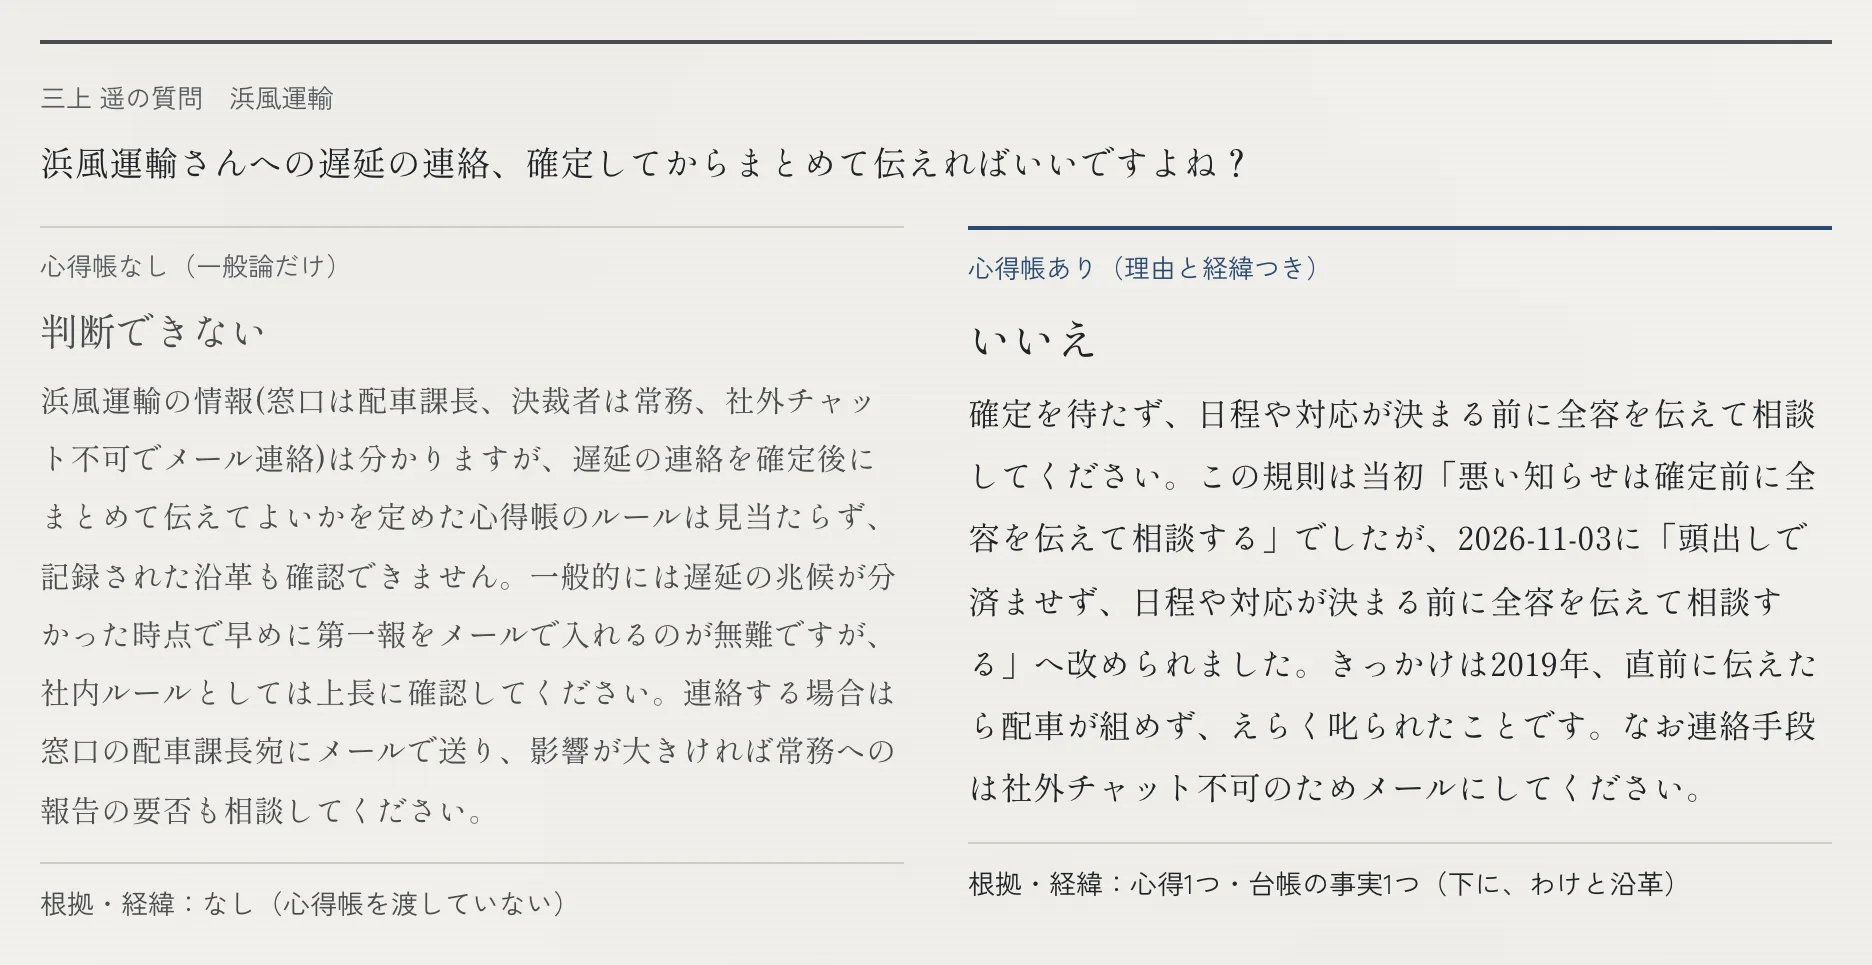
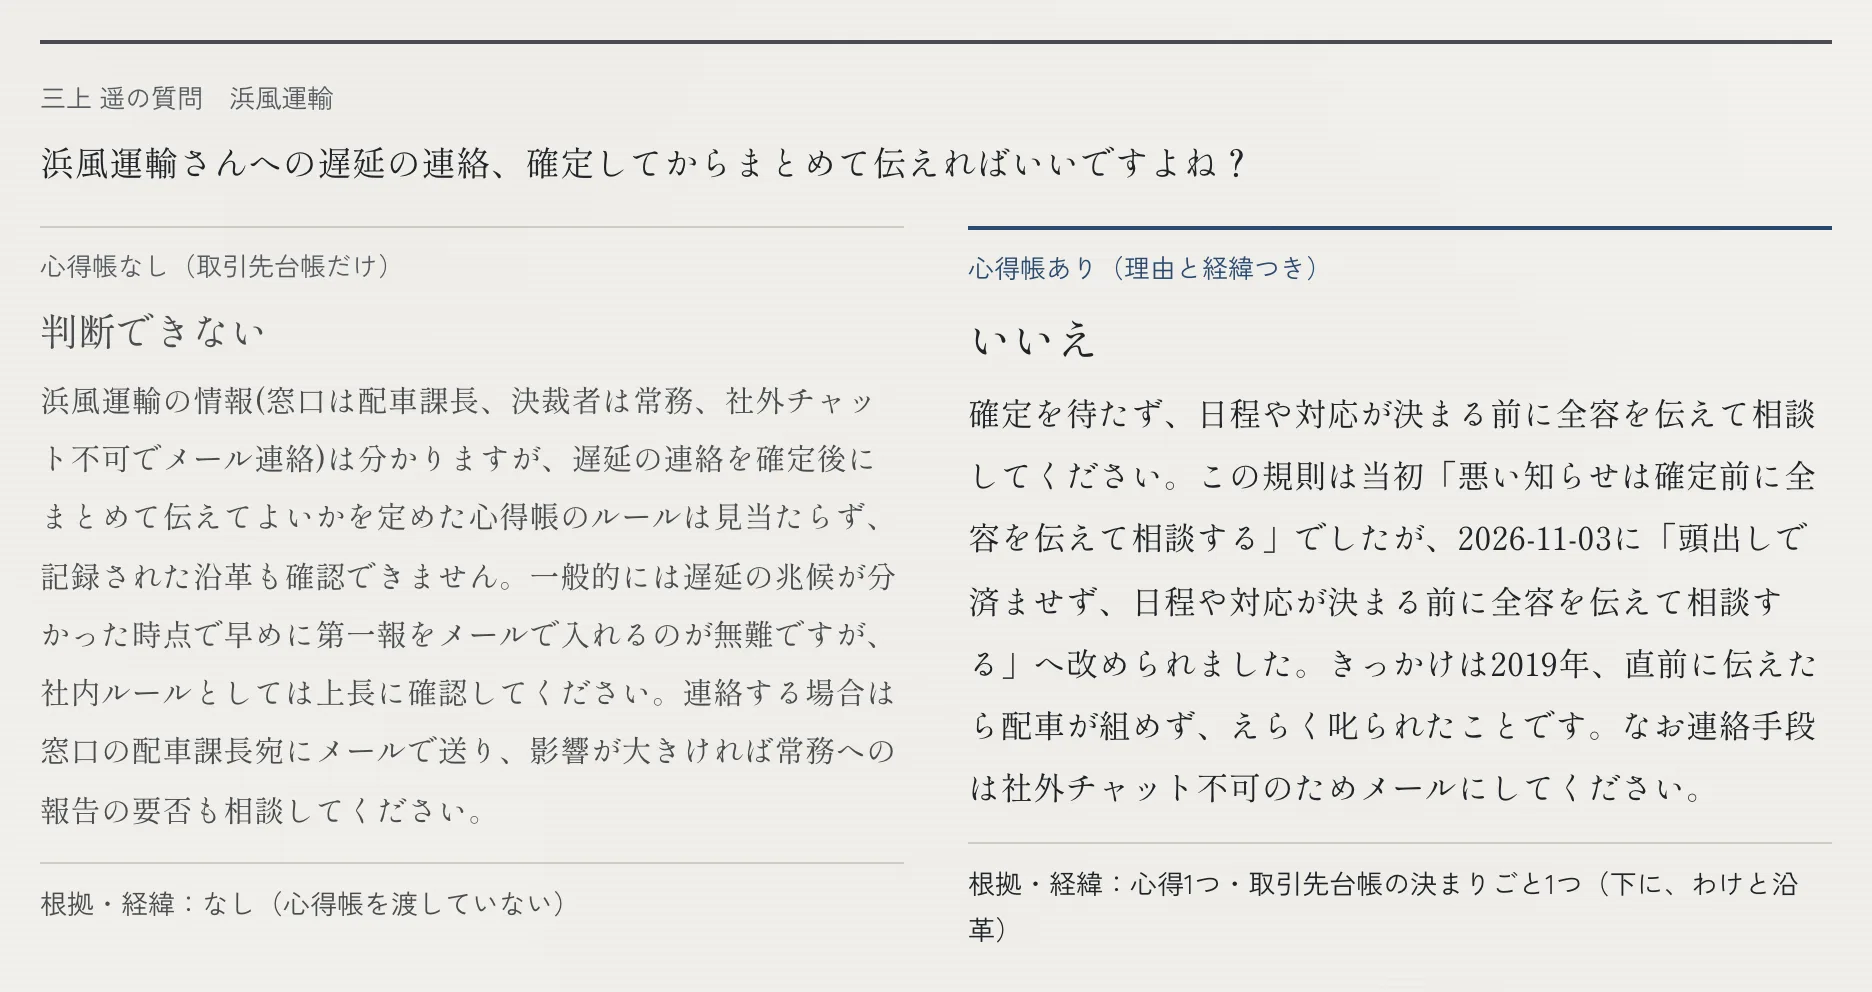
ui-critic round 16 (暖簾を継ぐ answer at full size): the words added since 前は are marked (character LCS); the answer with the 心得帳 first on phones; plain words for evaluation/ledger jargon; small lines 13px, 前は in body ink, labels unbroken; 心得帳なし（取引先台帳だけ）; s07 and README pictures re-shot

diff --git a/app/noren/page.tsx b/app/noren/page.tsx
@@ -10,6 +10,26 @@ import { ownEnabled } from "@/src/core/own-world";
 import general from "@/data/demo/recorded-answers-general.json";
 import recorded from "@/data/demo/recorded-answers.json";
 
+/**
+ * The rule as it is now, with only the words added since 前は marked (character LCS against 前は; one-character gaps inside a
+ * changed run are marked too, so incidental matches do not split it; ui-critic 11/6).
+ */
+function Changed({ before, after }: { before: string; after: string }) {
+  const b = [...before], a = [...after];
+  const L = Array.from({ length: a.length + 1 }, () => new Array<number>(b.length + 1).fill(0));
+  for (let i = a.length - 1; i >= 0; i--) for (let j = b.length - 1; j >= 0; j--) L[i][j] = a[i] === b[j] ? L[i + 1][j + 1] + 1 : Math.max(L[i + 1][j], L[i][j + 1]);
+  const added = new Array<boolean>(a.length).fill(true);
+  for (let i = 0, j = 0; i < a.length && j < b.length; ) {
+    if (a[i] === b[j]) { added[i] = false; i++; j++; } else if (L[i + 1][j] >= L[i][j + 1]) i++; else j++;
+  }
+  for (let i = 1; i < a.length - 1; i++) if (!added[i] && added[i - 1] && added[i + 1]) added[i] = true;
+  const marked = added.filter(Boolean).length;
+  if (!marked || marked > a.length * 0.6) return <>{after}</>; // nothing, or nearly everything, changed: no marking
+  const parts: { text: string; on: boolean }[] = [];
+  a.forEach((ch, i) => (parts.at(-1)?.on === added[i] ? (parts.at(-1)!.text += ch) : parts.push({ text: ch, on: added[i] })));
+  return <>{parts.map((x, k) => (x.on ? <mark key={k} className="bg-transparent font-bold text-ai underline decoration-ai/50 underline-offset-4">{x.text}</mark> : <span key={k}>{x.text}</span>))}</>;
+}
+
 const ANSWER: Record<SuccessorTurn["answer"], { word: string; tone: string }> = {
   yes: { word: "はい", tone: "text-ai" },
   no: { word: "いいえ", tone: "text-sumi" }, // vermilion is only for the master's marks
@@ -57,13 +77,13 @@ function Turn({ t, ruleText }: { t: SuccessorTurn; ruleText: (id: string) => str
       <p className="yomi mt-1 text-[17px]">{t.question}</p>
       {g ? (
         <div className="mt-4 grid gap-x-8 gap-y-5 sm:grid-cols-2">
-          <section aria-label="心得帳なしの答え" className="border-t border-keisen pt-2 sm:order-none">
-            <h3 className="text-[13px] text-nibi">心得帳なし（一般論だけ）</h3>
+          <section aria-label="心得帳なしの答え" className="order-2 border-t border-keisen pt-2 sm:order-none">
+            <h3 className="text-[13px] text-nibi">心得帳なし（取引先台帳だけ）</h3>
             <p className="mt-1 font-mincho text-[19px] text-sumi/80">{g.answer === "unknown" ? "判断できない" : ANSWER[g.answer].word}</p>
             <p className="yomi mt-1 text-[15px] text-sumi/80">{plainText(g.explanation)}</p>
             <p className="mt-3 border-t border-keisen pt-2 text-[13.5px] text-sumi/80">根拠・経緯：なし（心得帳を渡していない）</p>
           </section>
-          <section aria-label="心得帳ありの答え" className="border-t-2 border-ai pt-2">
+          <section aria-label="心得帳ありの答え" className="order-1 border-t-2 border-ai pt-2 sm:order-none">
             <h3 className="text-[13px] text-ai">心得帳あり（理由と経緯つき）</h3>
             <div className="mt-1">{mine}</div>
             <p className="mt-3 border-t border-keisen pt-2 text-[13.5px] text-sumi">
@@ -72,7 +92,7 @@ function Turn({ t, ruleText }: { t: SuccessorTurn; ruleText: (id: string) => str
                 const fact = t.citations.filter((c) => /出典[:：]\s*台帳/.test(c.history)).length;
                 const rule = t.citations.length - fact;
                 if (!t.citations.length) return "なし（心得帳に記録がないので、師匠に確認を勧める）";
-                return [rule && `心得${rule}つ`, fact && `台帳の事実${fact}つ`].filter(Boolean).join("・") + "（下に、わけと沿革）";
+                return [rule && `心得${rule}つ`, fact && `取引先台帳の決まりごと${fact}つ`].filter(Boolean).join("・") + "（下に、わけと沿革）";
               })()}
             </p>
           </section>
@@ -85,7 +105,7 @@ function Turn({ t, ruleText }: { t: SuccessorTurn; ruleText: (id: string) => str
         <div className="mt-5 grid gap-x-5 border-t border-keisen pt-3 sm:grid-cols-[2.2rem_1fr]">
           <h3 className="font-mincho text-[14px] tracking-[0.2em] sm:tate">根拠の心得</h3>
           <ul className="mt-1 space-y-3 sm:mt-0">
-            {t.source === "recorded" && <li className="text-[12.5px] text-nibi">評価のときの心得帳の言い回しです。いまの心得帳とは言い回しが違うことがあります。</li>}
+            {t.source === "recorded" && <li className="text-[13px] text-nibi">記録したときの心得帳の言い回しです。いまの心得帳とは、言い回しが違うことがあります。</li>}
             {t.citations.map((c, i) => {
               const h = citationParts(c.history);
               const live = t.source === "live" && ruleText(c.ruleId);
@@ -94,13 +114,13 @@ function Turn({ t, ruleText }: { t: SuccessorTurn; ruleText: (id: string) => str
                   {live ? (
                     <Link className="yomi text-[16.5px] text-ai underline-offset-4 hover:underline" href={`/kokoroe#${c.ruleId}`}>{h.rule}</Link>
                   ) : (
-                    <p className="yomi text-[16.5px]">{h.rule}</p>
+                    <p className="yomi text-[16.5px]">{h.before ? <Changed before={h.before} after={h.rule} /> : h.rule}</p>
                   )}
-                  {h.before && <p className="yomi text-[14px] text-nibi">前は：{h.before}</p>}
+                  {h.before && <p className="yomi text-[14px]"><span className="text-nibi">前は：</span>{h.before}</p>}
                   {h.why && <p className="yomi text-[14px]"><span className="text-nibi">わけ：</span>{h.why}</p>}
-                  <p className="text-[12.5px] text-nibi">
-                    {h.source && <>出どころ：{h.source}　</>}
-                    {h.written && <>心得帳に書いた日：{h.written}</>}
+                  <p className="text-[13px] text-nibi">
+                    {h.source && <span className="inline-block whitespace-nowrap">出どころ：{h.source.replace("台帳（取引先台帳の明示的な制約）", "取引先台帳")}　</span>}
+                    {h.written && <span className="inline-block whitespace-nowrap">心得帳に書いた日：{h.written}</span>}
                   </p>
                 </li>
               );
@@ -109,7 +129,7 @@ function Turn({ t, ruleText }: { t: SuccessorTurn; ruleText: (id: string) => str
         </div>
       )}
       {t.source === "recorded" ? (
-        <p className="mt-3 text-[12.5px] text-nibi">記録済みの回答（評価のときの心得帳で答えたもの）を表示しています。{g && "心得帳なしの答えも、同じ評価で記録したものです。"}</p>
+        <p className="mt-3 text-[13px] text-nibi">記録済みの答え（記録したときの心得帳で答えたもの）を表示しています。{g && "心得帳なしの答えも、同じときに、心得帳を渡さずに記録したものです。"}</p>
       ) : (
         g && <p className="mt-3 text-[12.5px] text-nibi">心得帳なしの答えは、評価で記録したものです（同じ質問、心得帳を渡さずに答えたもの）。</p>
       )}

diff --git a/docs/ui-polish-log.md b/docs/ui-polish-log.md
@@ -896,3 +896,26 @@ evaluation reads are unchanged.
 - **`eval:final` を API を使わずに試した:** `--yes` なしで実行すると、凍結した正解・直した台帳・コミットを確かめ、見積り $9.75（多めに見て $12.23）を出して「Not run」で止まった。訪問の段取りを評価に入れようとすると止まることも、コードで確かめた（`KOKOROE_EVAL_VISIT=on` で throw）。
 - **YouTube に限定公開で上げる手順:** `docs/final-day.md` に足した（上げるのは Kento）。
 - **README の「作者の現場」の一文:** 触っていない（#9、Kento が書く）。
+
+## A. 画面の目（ui-critic 16回目、11/6 06:25。暖簾を継ぐの答えを原寸で。`46-critic15/` → `47-critic15-fixes/`）
+
+- **見つけたこと:**
+  1. 根拠の心得で、前と今の言い回しがほとんど同じで、何が変わったのか（「確定前」→「日程や対応が決まる前」）が見つからない。答えの本文が引く「前の言い回し」と、「前は」の行が少し違う。
+  2. スマホでは、弱い方（心得帳なし、約10行）が先に来て、「いいえ」はずっと下。
+  3. 審査員には分からない内部の言葉。「評価のときの心得帳」「台帳の事実」「取引先台帳の明示的な制約」、本文の「この規則は」。
+  4. 小さい灰色の行（前は・出どころ・書いた日・注記）が小さく薄い。とくにスマホとダークモード。「前は」が「わけ」より薄く、使えない文字に見える。「心得帳に書い／た日」が途中で割れる。
+  5. 「心得帳なし（一般論だけ）」なのに、答えは取引先台帳の事実を使っている。
+- **直したこと（表示と文言だけ）:**
+  1. 根拠の心得の今の言い回しで、前から**足された語だけ**を藍の太字と下線で示す。前の文と1字ずつ比べ（最長共通部分列）、増えた部分だけを印にする。浜風運輸では「日程や対応が決まる」だけが印になる。
+  2. スマホでは、心得帳ありの答えを先に出す（PC は左右に並べたまま）。
+  3. 言葉を直した。
+     - 「記録したときの心得帳の言い回しです。いまの心得帳とは、言い回しが違うことがあります。」
+     - 「記録済みの答え（記録したときの心得帳で答えたもの）…心得帳なしの答えも、同じときに、心得帳を渡さずに記録したものです。」
+     - 「心得1つ・取引先台帳の決まりごと1つ」
+     - 出どころ「取引先台帳」（画面での言い換えだけ。モデルが読む心得帳の書き方 `src/learning/compile.ts` は変えていない）。
+  4. 小さい行を 13px にした。「前は」の本文は「わけ」と同じ濃さにした。「出どころ：…」「心得帳に書いた日：…」は途中で割れない。
+  5. 「心得帳なし（取引先台帳だけ）」にした。
+- **撮り直し:**
+  - 動画 s07（暖簾を継ぐ）だけを、記録済みのデータで撮り直した（静止画 `s07-noren-1〜3.jpg`、尺 10.5 秒のまま、正午より前）。
+  - README の画像も、同じ手順で作り直した（`docs/readme/*.webp`。3枚目に新しい見出し）。
+- **直さなかったこと:** 答えの本文が「この規則は当初『悪い知らせは確定前に…』」と、前の言い回しを少し違えて引いている点。これは記録済みのモデルの答え（評価で記録したもの）なので、書き換えない。今朝からのライブの答えは、普通の言葉で引用する（D-054 の追記）。
